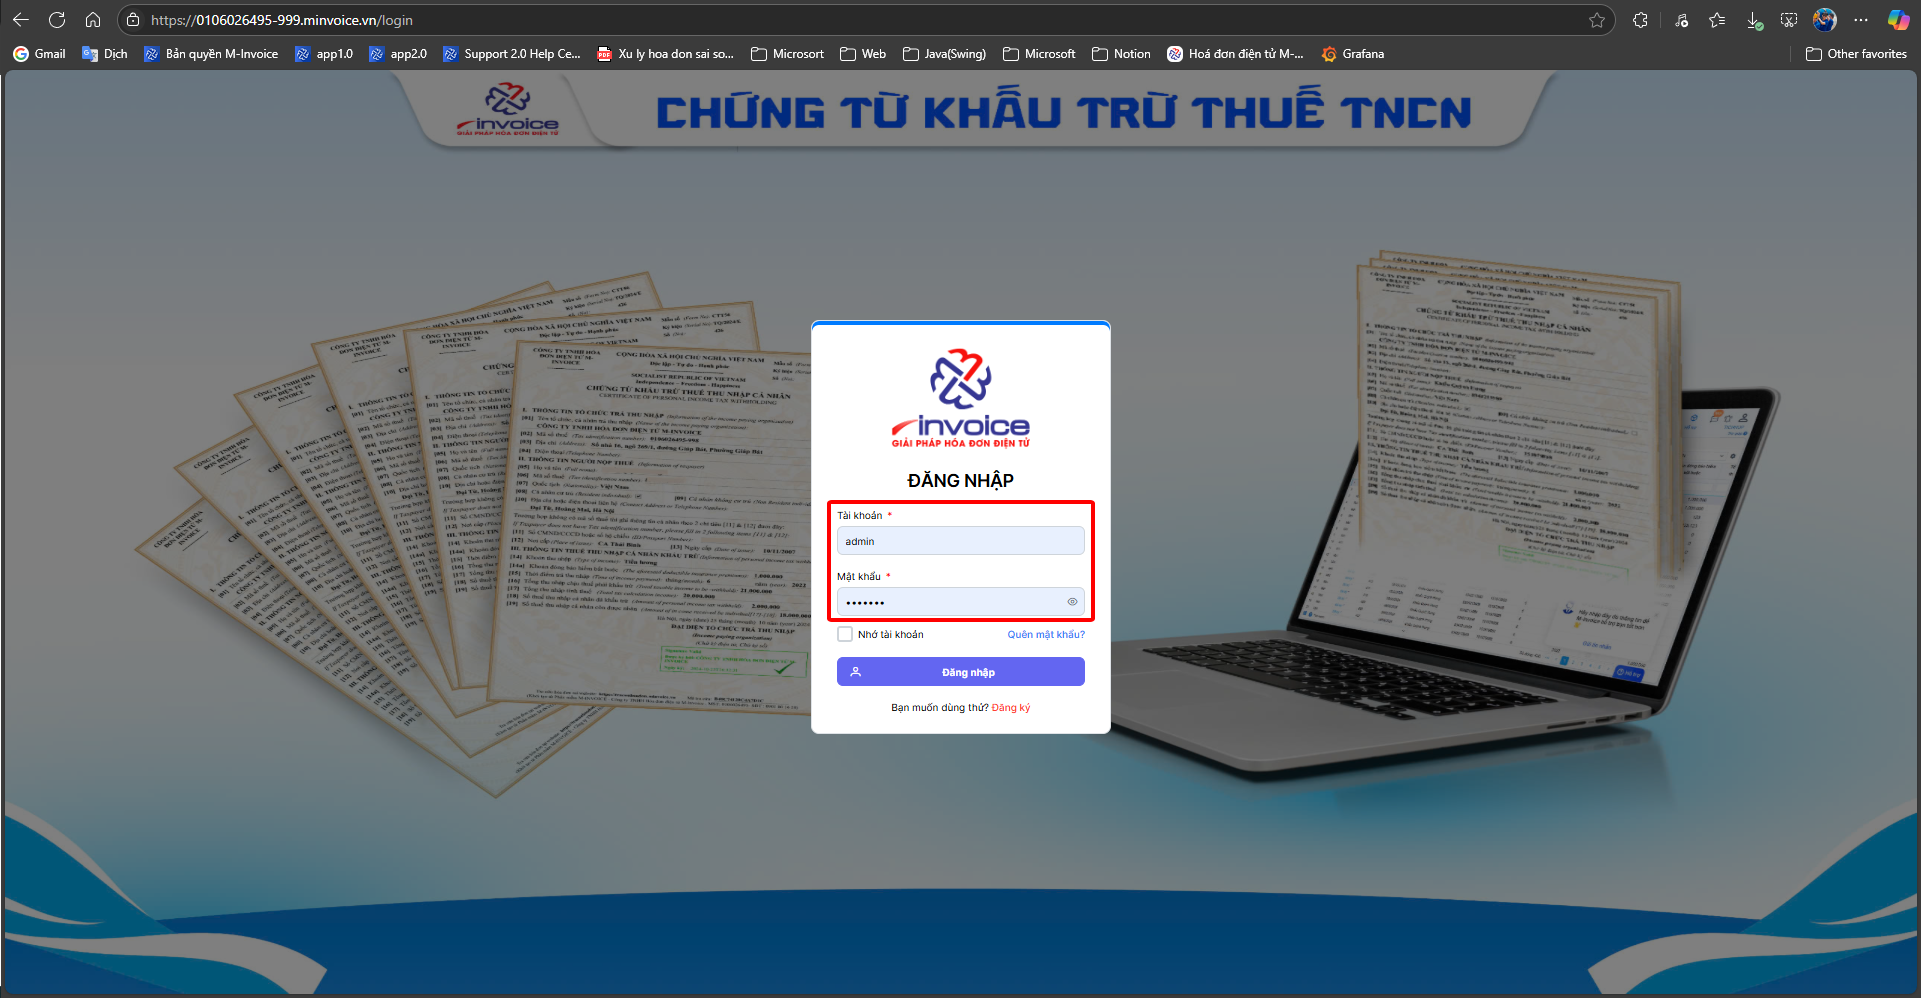
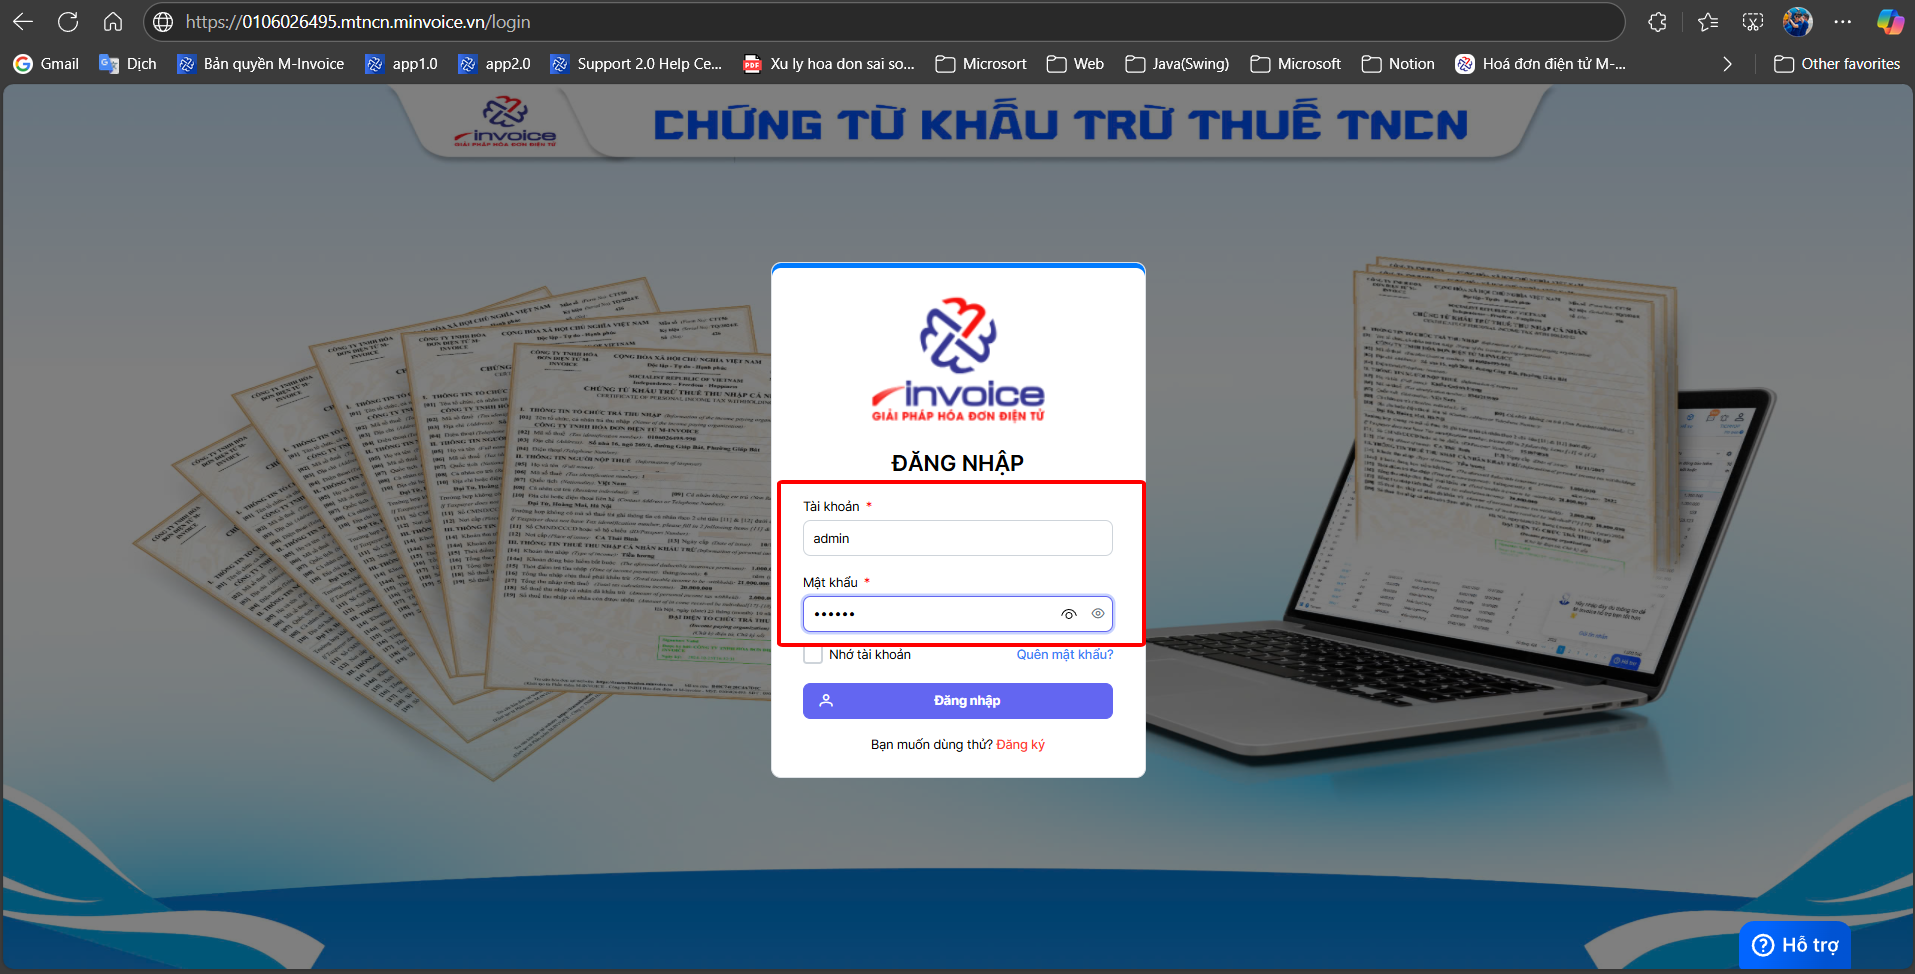
update chungtu 15/06/2025

diff --git a/docs/chung-tu/dang-nhap.md b/docs/chung-tu/dang-nhap.md
@@ -20,10 +20,10 @@ Dưới đây là những hướng dẫn thao tác cơ bản trên phần mềm 
 
 **Đường link mà quý khách có thể truy cập:**
 
-1.  Mã_số_thuế.minvoice.vn
+1.  Mã_số_thuế.mtncn.minvoice.vn
 
 Mã_số_thuế: là mã số thuế của công ty
-**VD: 0106026495.minvoice.vn**
+**VD: 0106026495.mtncn.minvoice.vn**
 
 ![Hình 1](../assets/images/chung-tu/ct_dangnhap_1.png)
 
